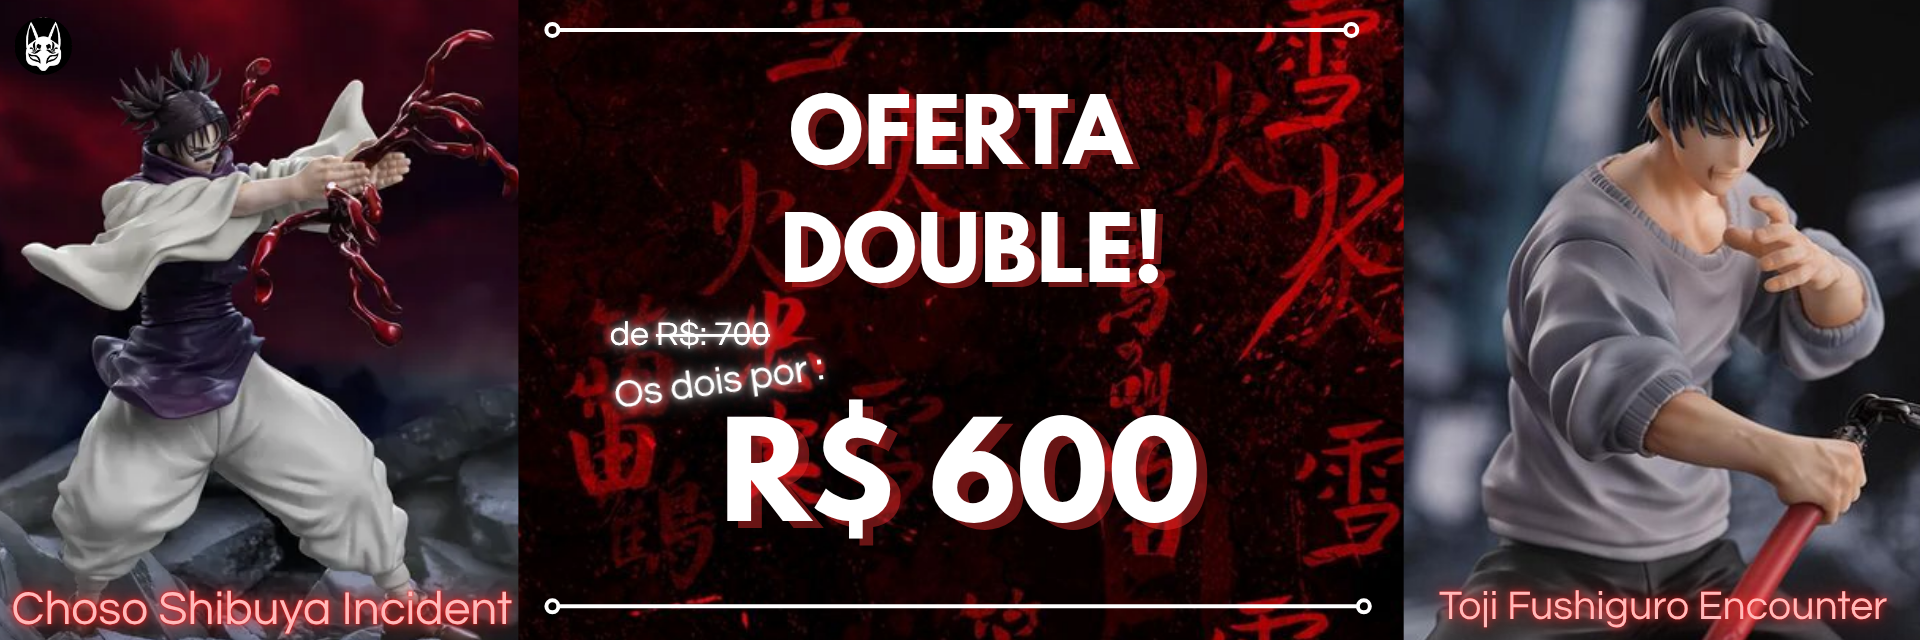
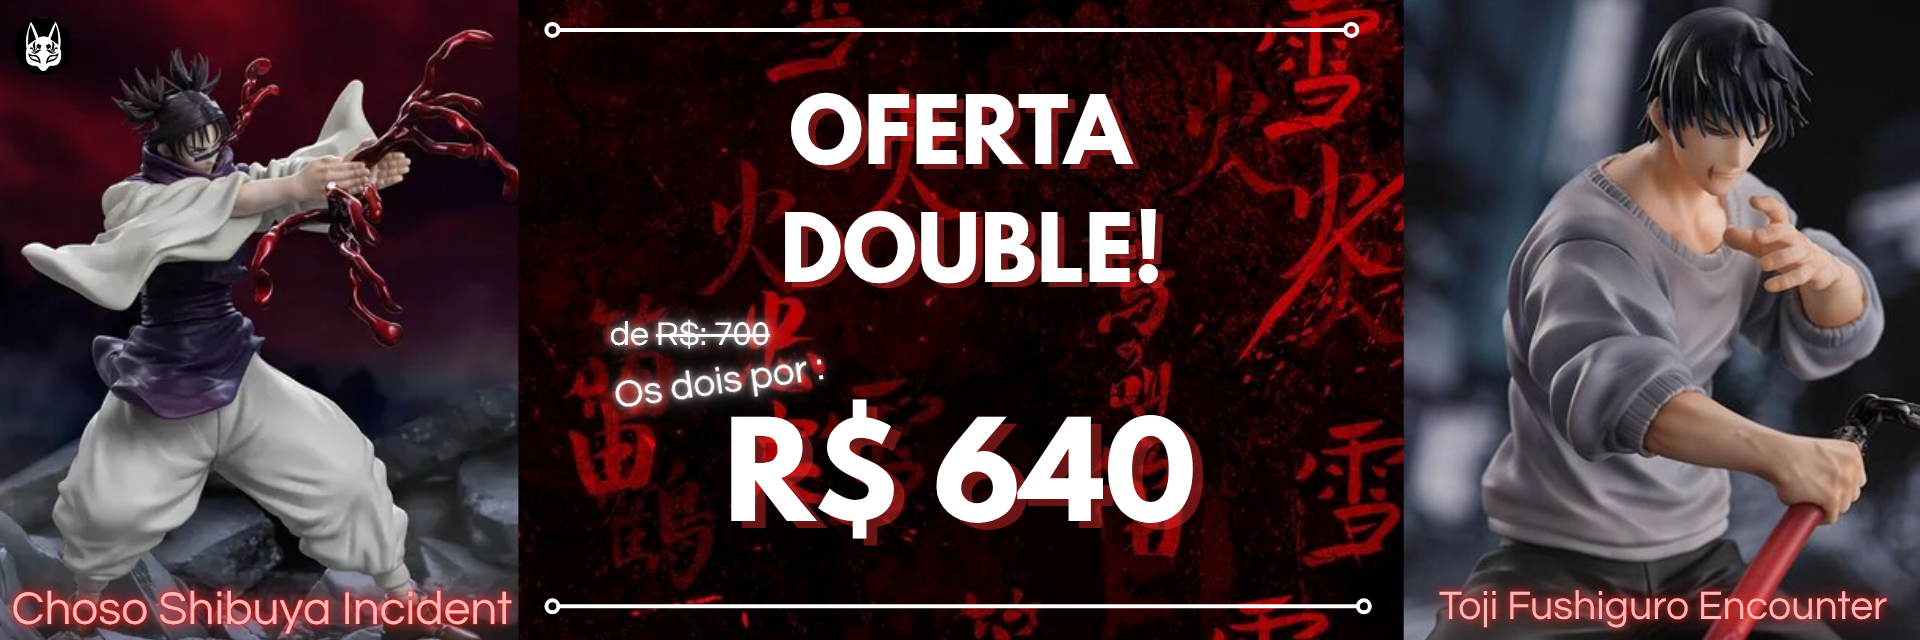
atualizacao de preco

Changed region(s): [[0.375, 0.625, 0.625, 0.8438]]

diff --git a/src/pages/Index.tsx b/src/pages/Index.tsx
@@ -357,7 +357,7 @@ const Index = () => {
               
               <div className="absolute inset-[3px] rounded-3xl bg-black group-hover:transition-colors duration-100"></div>
               
-              <span className="relative z-10">R$600</span>
+              <span className="relative z-10">R$640</span>
             </button>
           </div>
           </div>
